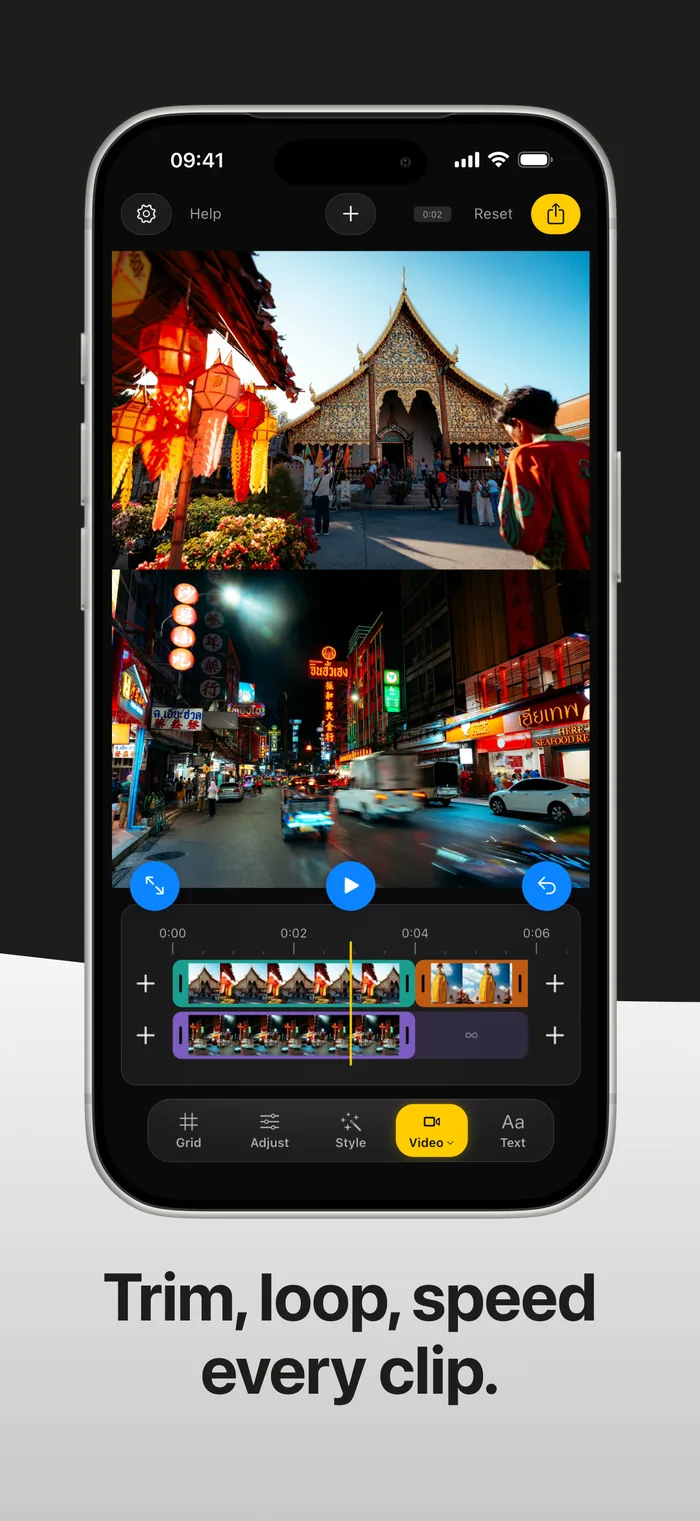
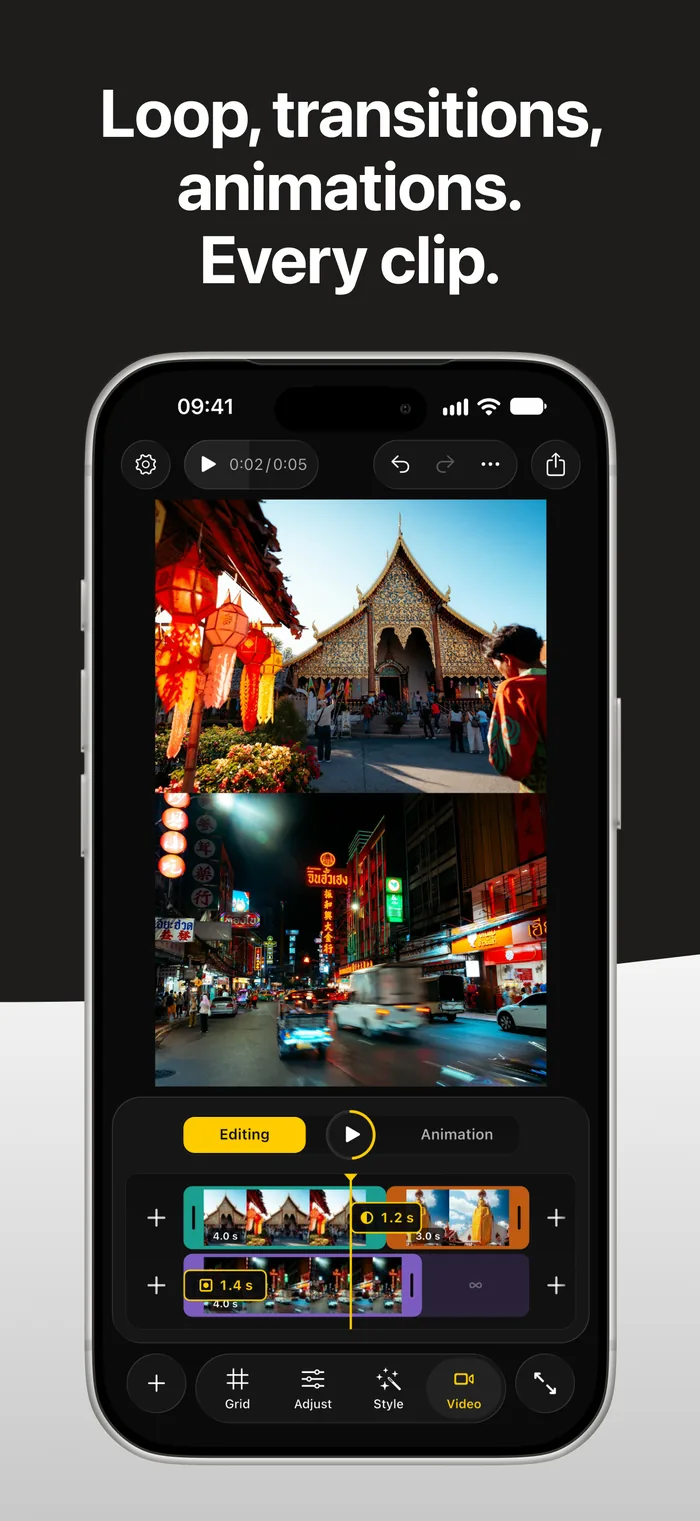
Landing : captures de l'interface actuelle (jeu App Store 1.1.2 EN) à la place de celles de la v1.0, image de partage comprise

diff --git a/index.html b/index.html
@@ -145,8 +145,8 @@
     </div>
     <div class="hero-stills">
       <img class="s1" src="img/still-hero.webp" alt="Photos and videos playing together in one grid">
-      <img src="img/still-freestyle.webp" alt="Grid or freestyle layouts">
-      <img src="img/still-clips.webp" alt="Trim, loop and speed every clip">
+      <img src="img/still-freestyle.webp" alt="Split screen, layout or freestyle">
+      <img src="img/still-clips.webp" alt="Loops, transitions and animations on every clip">
     </div>
   </div>
 
